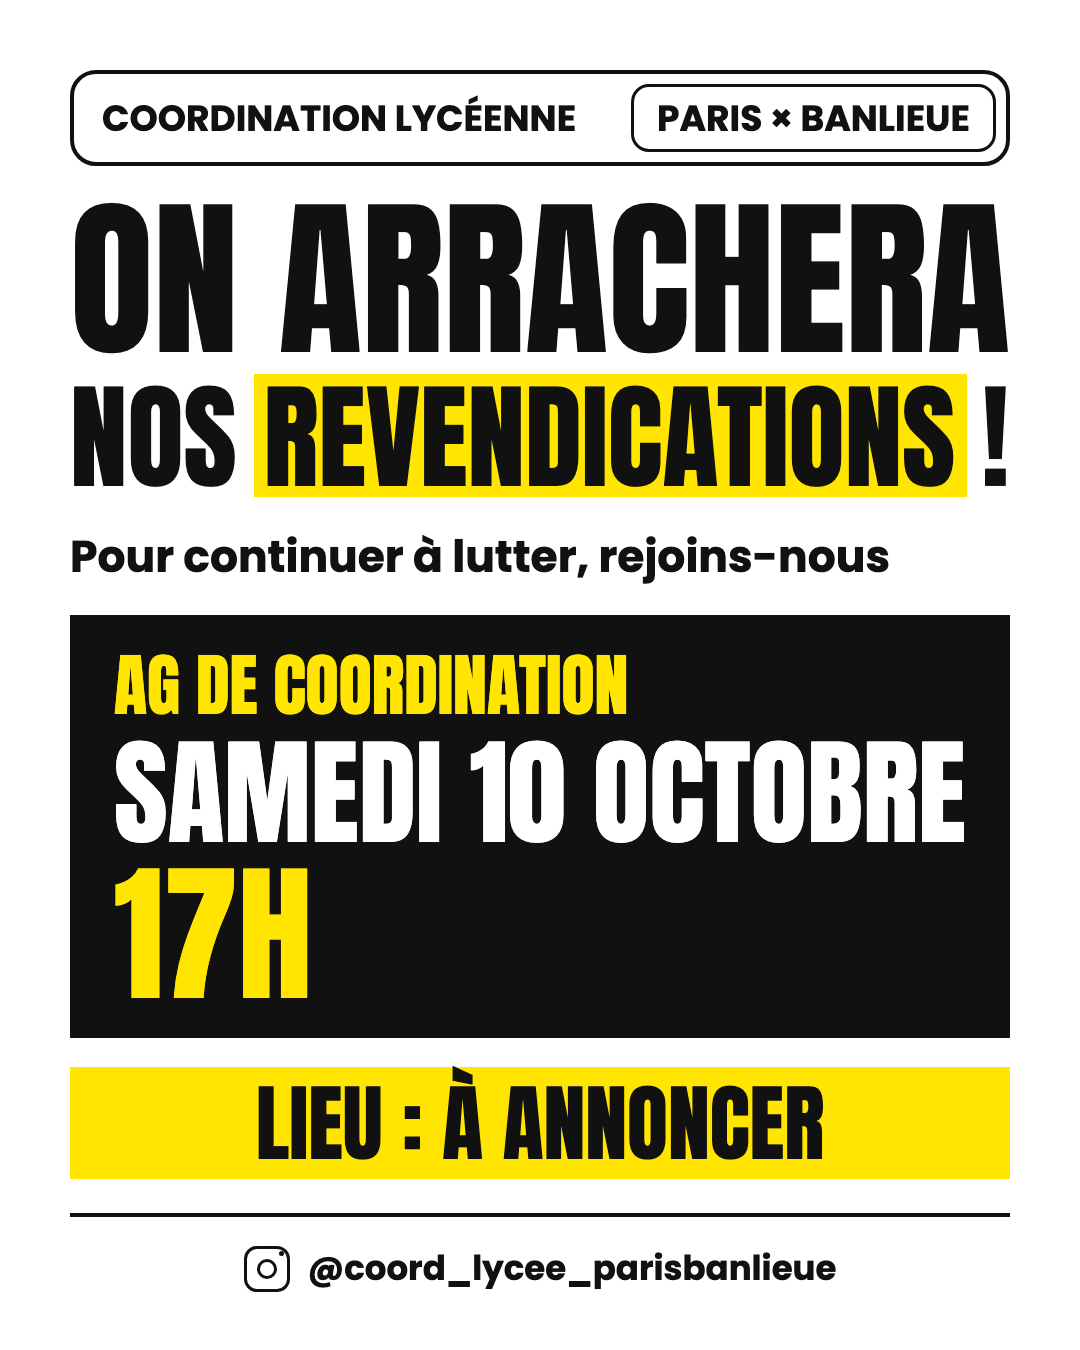
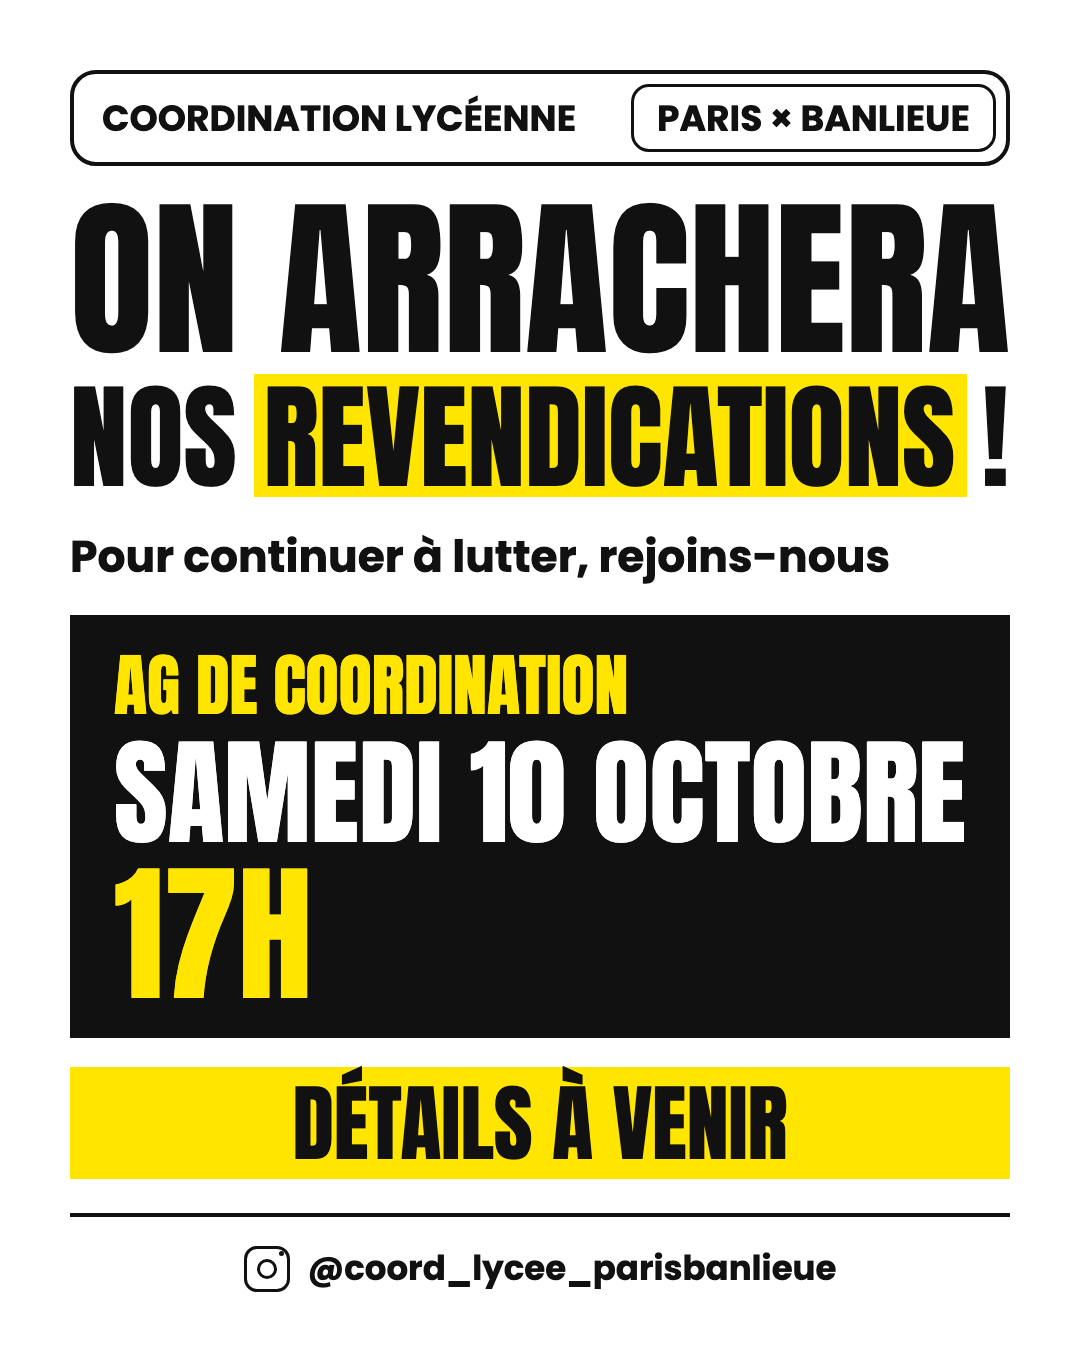
Détails à venir pour l'AG de samedi

Changed region(s): [[0.2139, 0.7778, 0.7639, 0.8711]]

diff --git a/index.html b/index.html
@@ -1,7 +1,7 @@
 <!doctype html><html lang=fr><meta charset=utf-8><meta name=viewport content="width=device-width,initial-scale=1">
 <title>AG de coordination — samedi 10 octobre, 17h</title>
-<meta property="og:title" content="AG de coordination — samedi 10 octobre, 17h"><meta property="og:description" content="Lieu : à annoncer"><meta property="og:image" content="ag.png">
+<meta property="og:title" content="AG de coordination — samedi 10 octobre, 17h"><meta property="og:description" content="Détails à venir"><meta property="og:image" content="ag.png">
 <style>@font-face{font-family:Anton;src:url(fonts/Anton-Regular.ttf)}@font-face{font-family:Poppins;font-weight:700;src:url(fonts/Poppins-Bold.ttf)}
 *{margin:0;padding:0}html,body{background:#fff}#v{position:relative;width:1080px;height:1350px;transform-origin:0 0;overflow:hidden}#v>div{position:absolute}#w{overflow:hidden}</style>
-<div id=w><div id=v><div style="left:70.0px;top:70.0px;width:940.0px;height:96.0px;border:4px solid #111111;box-sizing:border-box;border-radius:26px;"></div><div style="left:102.0px;top:91.1px;width:514.1px;font:700 36.00px/normal 'Poppins';color:#111111;text-align:left;white-space:nowrap">COORDINATION LYCÉENNE</div><div style="left:631.1px;top:84.0px;width:364.9px;height:68.0px;border:3px solid #111111;box-sizing:border-box;border-radius:18px;"></div><div style="left:631.1px;top:91.1px;width:364.9px;font:700 36.00px/normal 'Poppins';color:#111111;text-align:center;white-space:nowrap">PARIS × BANLIEUE</div><div style="left:70.0px;top:150.7px;width:1000.0px;font:400 171.25px/normal 'Anton';color:#111111;text-align:left;white-space:nowrap">ON ARRACHERA</div><div style="left:253.5px;top:374.2px;width:713.2px;height:123.0px;background:#FFE500;"></div><div style="left:70.0px;top:349.7px;width:1000.0px;font:400 115.24px/normal 'Anton';color:#111111;text-align:left;white-space:nowrap">NOS REVENDICATIONS !</div><div style="left:70.0px;top:523.8px;width:860.0px;font:700 44.00px/normal 'Poppins';color:#111111;text-align:left;white-space:nowrap">Pour continuer à lutter, rejoins-nous</div><div style="left:70.0px;top:615.2px;width:940.0px;height:423.3px;background:#111111;"></div><div style="left:114.0px;top:633.7px;width:555.2px;font:400 68.00px/normal 'Anton';color:#FFE500;text-align:left;white-space:nowrap">AG DE COORDINATION</div><div style="left:114.0px;top:704.8px;width:940.0px;font:400 116.28px/normal 'Anton';color:#FFFFFF;text-align:left;white-space:nowrap">SAMEDI 10 OCTOBRE</div><div style="left:114.0px;top:822.0px;width:238.6px;font:400 150.00px/normal 'Anton';color:#FFE500;text-align:left;white-space:nowrap">17H</div><div style="left:70.0px;top:1066.5px;width:940.0px;height:112.0px;background:#FFE500;"></div><div style="left:70.0px;top:1059.8px;width:940.0px;font:400 84.00px/normal 'Anton';color:#111111;text-align:center;white-space:nowrap">LIEU : À ANNONCER</div><div style="left:70.0px;top:1212.5px;width:940.0px;height:4.0px;background:#111111;"></div><div style="left:243.5px;top:1245.5px;width:46.0px;height:46.0px;border:3.5px solid #111111;box-sizing:border-box;border-radius:13px;"></div><div style="left:256.5px;top:1258.5px;width:20.0px;height:20.0px;border:3.5px solid #111111;box-sizing:border-box;border-radius:50%;"></div><div style="left:279.0px;top:1251.0px;width:5.0px;height:5.0px;background:#111111;border-radius:50%;"></div><div style="left:307.5px;top:1243.1px;width:568.9px;font:700 34.00px/normal 'Poppins';color:#111111;text-align:left;white-space:nowrap">@coord_lycee_parisbanlieue</div></div></div>
+<div id=w><div id=v><div style="left:70.0px;top:70.0px;width:940.0px;height:96.0px;border:4px solid #111111;box-sizing:border-box;border-radius:26px;"></div><div style="left:102.0px;top:91.1px;width:514.1px;font:700 36.00px/normal 'Poppins';color:#111111;text-align:left;white-space:nowrap">COORDINATION LYCÉENNE</div><div style="left:631.1px;top:84.0px;width:364.9px;height:68.0px;border:3px solid #111111;box-sizing:border-box;border-radius:18px;"></div><div style="left:631.1px;top:91.1px;width:364.9px;font:700 36.00px/normal 'Poppins';color:#111111;text-align:center;white-space:nowrap">PARIS × BANLIEUE</div><div style="left:70.0px;top:150.7px;width:1000.0px;font:400 171.25px/normal 'Anton';color:#111111;text-align:left;white-space:nowrap">ON ARRACHERA</div><div style="left:253.5px;top:374.2px;width:713.2px;height:123.0px;background:#FFE500;"></div><div style="left:70.0px;top:349.7px;width:1000.0px;font:400 115.24px/normal 'Anton';color:#111111;text-align:left;white-space:nowrap">NOS REVENDICATIONS !</div><div style="left:70.0px;top:523.8px;width:860.0px;font:700 44.00px/normal 'Poppins';color:#111111;text-align:left;white-space:nowrap">Pour continuer à lutter, rejoins-nous</div><div style="left:70.0px;top:615.2px;width:940.0px;height:423.3px;background:#111111;"></div><div style="left:114.0px;top:633.7px;width:555.2px;font:400 68.00px/normal 'Anton';color:#FFE500;text-align:left;white-space:nowrap">AG DE COORDINATION</div><div style="left:114.0px;top:704.8px;width:940.0px;font:400 116.28px/normal 'Anton';color:#FFFFFF;text-align:left;white-space:nowrap">SAMEDI 10 OCTOBRE</div><div style="left:114.0px;top:822.0px;width:238.6px;font:400 150.00px/normal 'Anton';color:#FFE500;text-align:left;white-space:nowrap">17H</div><div style="left:70.0px;top:1066.5px;width:940.0px;height:112.0px;background:#FFE500;"></div><div style="left:70.0px;top:1059.8px;width:940.0px;font:400 84.00px/normal 'Anton';color:#111111;text-align:center;white-space:nowrap">DÉTAILS À VENIR</div><div style="left:70.0px;top:1212.5px;width:940.0px;height:4.0px;background:#111111;"></div><div style="left:243.5px;top:1245.5px;width:46.0px;height:46.0px;border:3.5px solid #111111;box-sizing:border-box;border-radius:13px;"></div><div style="left:256.5px;top:1258.5px;width:20.0px;height:20.0px;border:3.5px solid #111111;box-sizing:border-box;border-radius:50%;"></div><div style="left:279.0px;top:1251.0px;width:5.0px;height:5.0px;background:#111111;border-radius:50%;"></div><div style="left:307.5px;top:1243.1px;width:568.9px;font:700 34.00px/normal 'Poppins';color:#111111;text-align:left;white-space:nowrap">@coord_lycee_parisbanlieue</div></div></div>
 <script>function f(){var s=Math.min(innerWidth/1080,innerHeight/1350);var v=document.getElementById('v'),w=document.getElementById('w');v.style.transform='scale('+s+')';w.style.width=1080*s+'px';w.style.height=1350*s+'px';w.style.margin='0 auto'}addEventListener('resize',f);document.fonts.ready.then(f);f()</script>
